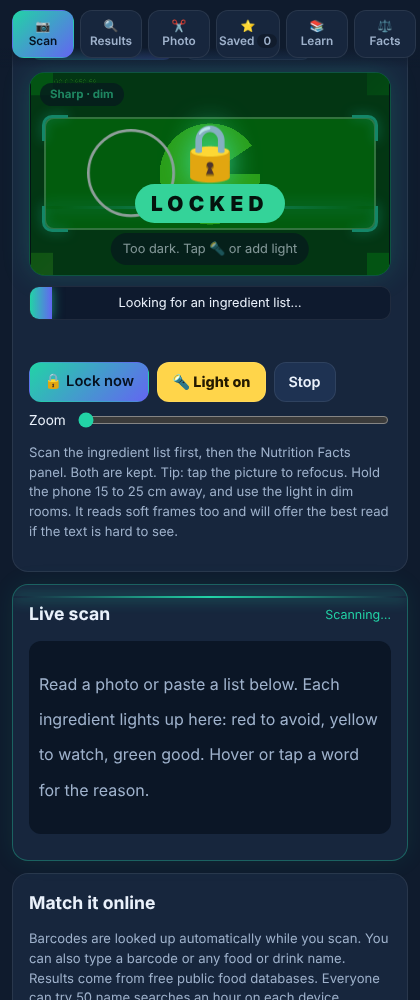
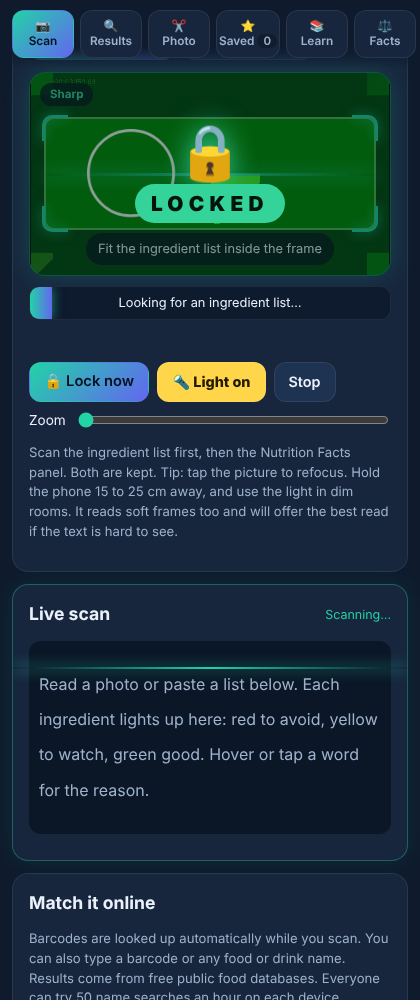
Scanner: adaptive pass for crinkled labels, union of ingredient words across frames, barcode from a photo, NOVA processing and bioengineering status on every online product
Claude-Session: https://claude.ai/code/session_01AdSpQmUyVNcMcYJpZL89FL

diff --git a/app.js b/app.js
@@ -96,6 +96,24 @@
   }
 
   /* The ORIGINAL prep: grayscale + contrast, upscale small crops. */
+  /* crinkled or shadowed packs: local (adaptive) black-and-white so text stays crisp where the light changes */
+  function binPrep(canvas) {
+    const scale = canvas.width < 1800 ? 1800 / canvas.width : 1;
+    const w = Math.round(canvas.width * scale), h = Math.round(canvas.height * scale);
+    const c = document.createElement("canvas"); c.width = w; c.height = h;
+    const ctx = c.getContext("2d", { willReadFrequently: true }); ctx.drawImage(canvas, 0, 0, w, h);
+    const im = ctx.getImageData(0, 0, w, h), d = im.data, g = new Float32Array(w * h);
+    for (let i = 0, j = 0; i < d.length; i += 4, j++) g[j] = 0.299 * d[i] + 0.587 * d[i + 1] + 0.114 * d[i + 2];
+    const R = Math.max(12, Math.round(Math.min(w, h) / 40)), integ = new Float64Array((w + 1) * (h + 1));
+    for (let y = 0; y < h; y++) { let row = 0; for (let x = 0; x < w; x++) { row += g[y * w + x]; integ[(y + 1) * (w + 1) + x + 1] = integ[y * (w + 1) + x + 1] + row; } }
+    for (let y = 0; y < h; y++) for (let x = 0; x < w; x++) {
+      const x0 = Math.max(0, x - R), x1 = Math.min(w, x + R + 1), y0 = Math.max(0, y - R), y1 = Math.min(h, y + R + 1);
+      const sum = integ[y1 * (w + 1) + x1] - integ[y0 * (w + 1) + x1] - integ[y1 * (w + 1) + x0] + integ[y0 * (w + 1) + x0];
+      const mean = sum / ((x1 - x0) * (y1 - y0));
+      const v = g[y * w + x] > mean - 10 ? 255 : 0, k = (y * w + x) * 4; d[k] = d[k + 1] = d[k + 2] = v; d[k + 3] = 255;
+    }
+    ctx.putImageData(im, 0, 0); return c;
+  }
   function classicPrep(canvas) {
     const scale = canvas.width < 1400 ? 1400 / canvas.width : 1;
     const out = document.createElement("canvas");
@@ -150,10 +168,13 @@
     if (!n) return ""; const F = window.LLNut.FIELDS.filter(f => n[f.k] != null);
     return F.length ? "  ·  Nutrition seen: " + F.slice(0, 6).map(f => f.label + " " + n[f.k] + (f.unit === "kcal" ? "" : f.unit)).join(", ") : "";
   }
-  function finalizeIng(text, cam) {                // keep items seen in at least 2 reads once we have 3+ reads
-    if (!text || cam.reads < 3) return text;
-    const kept = topItems(text).filter(it => (cam.votes.get(LLOnline.normalizeKey(it)) || 0) >= 2);
-    return kept.length >= 2 ? kept.join(", ") : text;
+  function finalizeIng(text, cam) {                // every ingredient seen in any read; a word read only once must be a known ingredient to be kept
+    if (!text) return text;
+    const E = window.IngredientEngine, out = [], seen = new Set();
+    const add = it => { const k = LLOnline.normalizeKey(it); if (!k || seen.has(k)) return; seen.add(k); out.push(it); };
+    topItems(text).forEach(it => { const k = LLOnline.normalizeKey(it); const n = cam.votes.get(k) || 0; if (n >= 2 || (E && E.matches(it).length) || cam.reads < 2) add(it); });
+    cam.first.forEach((it, k) => { if (!seen.has(k) && (cam.votes.get(k) || 0) >= 2) add(it); });
+    return out.length ? out.join(", ") : text;
   }
 
   /* ----- online match (Open Food Facts) ----- */
@@ -170,6 +191,16 @@
   function cmpNow() { return online && $("ingText").value.trim() && online.ing ? LLOnline.compare($("ingText").value, online.ing) : null; }
   let curBasis = "";
   const BASIS_LABEL = { serving: "Per serving", "100g": "Per 100 g", package: "Whole package" };
+  const PROCESS = ["", "Unprocessed or minimally processed (NOVA 1)", "Processed culinary ingredient (NOVA 2)", "Processed food (NOVA 3)", "Ultra-processed (NOVA 4)"];
+  function procLine(p) {
+    const bits = [];
+    if (p.nova && PROCESS[p.nova]) bits.push(`<span class="${p.nova >= 4 ? "bad" : p.nova === 3 ? "warnc" : "good"}">${PROCESS[p.nova]}</span>`);
+    if (p.nutri) bits.push("Nutri-Score " + String(p.nutri).toUpperCase());
+    const bio = /bio[\s-]?engineer|genetically[\s-]+(?:engineered|modified)|\bgmo\b|lab[\s-]?grown|cell[\s-]?cultur/i.test(p.ing || "");
+    bits.push(bio ? '<span class="bad">⚠ Bioengineered ingredient listed</span>' : "No bioengineering stated in its ingredient list");
+    if (!p.nova) bits.push("Processing level not in this database for this item");
+    return `<p class="small procline">${bits.join(" · ")}</p>`;
+  }
   function showOnline(p) {
     if (!online || online.code !== p.code || online.name !== p.name) curBasis = "";
     online = p; document.querySelectorAll("#findList .pick").forEach(b => b.classList.toggle("sel", b._p === p));
@@ -178,6 +209,7 @@
     box.innerHTML = `<div class="onl ${badge[0]}">
       ${p.img ? `<img src="${esc(p.img)}" alt="" loading="lazy">` : `<span class="pthumb big ph">${foodIcon(p.name)}</span>`}
       <div class="onlmeta"><b>${esc(p.name)}</b><small>${esc([p.brand, p.pkg || p.qty, p.src].filter(Boolean).join(" · "))}</small><span class="onlbadge">${esc(badge[1])}</span></div></div>
+      ${procLine(p)}
       ${cmp ? `<p class="small">${cmp.matched} of ${cmp.scanCount} scanned ingredients match the online list (${cmp.onlineCount} online).${cmp.unmatched.length ? ` Not found online: <b>${esc(cmp.unmatched.slice(0, 5).join(", "))}</b>.` : ""}${cmp.missing.length ? ` Online but not scanned: ${esc(cmp.missing.slice(0, 4).join(", "))}.` : ""}</p>` : (p.ing ? '<p class="small muted">Scan or paste the ingredient list to compare it with this product.</p>' : '<p class="small muted">This product has no ingredient list online.</p>')}
       ${nut._n && bases.length > 1 ? `<div class="basisrow">${bases.map(b => `<button class="${nut.which === b ? "on" : ""}" data-b="${b}">${BASIS_LABEL[b]}</button>`).join("")}</div>` : ""}
       <div class="row">
@@ -287,6 +319,28 @@
     if ("BarcodeDetector" in window) { try { bdet = new BarcodeDetector({ formats: ["ean_13", "ean_8", "upc_a", "upc_e"] }); return true; } catch {} }
     return loadZX();
   }
+  async function barcodeFromCanvas(c) {            // a photo of a barcode, read with the same decoders as the live camera
+    try {
+      if ("BarcodeDetector" in window) { const d = new BarcodeDetector({ formats: ["ean_13", "ean_8", "upc_a", "upc_e"] }); const r = await d.detect(c); if (r[0]) return r[0].rawValue.replace(/\D/g, ""); }
+    } catch {}
+    if (!(await loadZX())) return "";
+    try {
+      const Z = window.ZXing, reader = new Z.MultiFormatReader(), hints = new Map();
+      hints.set(Z.DecodeHintType.POSSIBLE_FORMATS, [Z.BarcodeFormat.EAN_13, Z.BarcodeFormat.EAN_8, Z.BarcodeFormat.UPC_A, Z.BarcodeFormat.UPC_E]); hints.set(Z.DecodeHintType.TRY_HARDER, true); reader.setHints(hints);
+      return reader.decode(new Z.BinaryBitmap(new Z.HybridBinarizer(new Z.HTMLCanvasElementLuminanceSource(c)))).getText().replace(/\D/g, "");
+    } catch { return ""; }
+  }
+  $("barFile").addEventListener("change", async e => {
+    const f = e.target.files[0]; e.target.value = ""; if (!f) return;
+    try {
+      let bmp; try { bmp = await createImageBitmap(f, { imageOrientation: "from-image" }); } catch { bmp = await new Promise((res, rej) => { const im = new Image(); im.onload = () => res(im); im.onerror = rej; im.src = URL.createObjectURL(f); }); }
+      const w = bmp.width || bmp.naturalWidth, h = bmp.height || bmp.naturalHeight, k = Math.min(1, 1600 / Math.max(w, h));
+      const c = document.createElement("canvas"); c.width = Math.round(w * k); c.height = Math.round(h * k); c.getContext("2d").drawImage(bmp, 0, 0, c.width, c.height);
+      const code = await barcodeFromCanvas(c);
+      if (!code) return toast("No barcode found in that photo. Move closer and keep the barcode flat and sharp.");
+      $("findCode").value = code; guard($("findCodeBtn"), () => lookupCode(code, true));
+    } catch { toast("Could not read that photo"); }
+  });
   async function detectBarcode() {
     const v = $("camVideo"); if (!v.videoWidth) return "";
     try {
@@ -317,7 +371,7 @@
   }
 
   /* ----- live camera scanner ----- */
-  const cam = { stream: null, track: null, run: false, worker: null, last: "", stable: 0, bestRead: null, cand: null, candHits: 0, t0: 0, n: 0, locking: false, nut: null, votes: new Map(), reads: 0, code: "", barRun: false };
+  const cam = { stream: null, track: null, run: false, worker: null, last: "", stable: 0, bestRead: null, cand: null, candHits: 0, t0: 0, n: 0, locking: false, nut: null, votes: new Map(), first: new Map(), reads: 0, code: "", barRun: false };
   const sleep = ms => new Promise(r => setTimeout(r, ms));
   const hud = (t, state) => { $("camHud").textContent = t; if (state) $("camView").dataset.state = state; };
 
@@ -388,7 +442,7 @@
     $("camView").style.aspectRatio = v.videoWidth + " / " + v.videoHeight;
     setupTrack();
     $("camView").dataset.state = ""; $("camLockBadge").hidden = true; $("camLive").textContent = ""; setBar($("scanBar"), 0); $("scanStatus").textContent = "Starting…";
-    Object.assign(cam, { run: true, last: "", stable: 0, bestRead: null, cand: null, candHits: 0, t0: Date.now(), n: 0, locking: false, nut: null, votes: new Map(), reads: 0, code: "", barRun: false });
+    Object.assign(cam, { run: true, last: "", stable: 0, bestRead: null, cand: null, candHits: 0, t0: Date.now(), n: 0, locking: false, nut: null, votes: new Map(), first: new Map(), reads: 0, code: "", barRun: false });
     scanBusy = true; $("camCapture").classList.remove("pulse"); $("camCapture").textContent = "🔒 Lock now";
     $("liveCard").classList.add("scanning"); $("liveState").textContent = "Scanning…";
     $("camBox").scrollIntoView({ behavior: "smooth", block: "start" });
@@ -453,8 +507,9 @@
         // alternate prep: original, and a rescue version for soft or dark frames
         const rescue = (cam.n++ % 2 === 1) || soft || dark;
         const src = rescue ? enhanceFrame(burst.c, soft) : burst.c;
-        hud(soft || dark ? "Reading a soft frame…" : "Reading…", cam.cand ? "found" : "search");
-        const { data } = await recognizeSafe(classicPrep(src));
+        const useBin = soft || dark || cam.n % 3 === 2;
+        hud(soft || dark ? "Reading a soft or crinkled frame…" : "Reading…", cam.cand ? "found" : "search");
+        const { data } = await recognizeSafe(useBin ? binPrep(src) : classicPrep(src));
         if (!cam.run) break;
         const r = filterOCR(data), secs = (Date.now() - cam.t0) / 1000;
         if (r.nut && (!cam.nut || r.nut._n >= cam.nut._n)) cam.nut = r.nut;
@@ -466,7 +521,7 @@
           $("camLive").textContent = (r.hits ? "…" + r.text.slice(0, 160) : "") + nutLine(r.nutRaw);
           hud(burst.sh < 25 ? "Hold steady, tap the screen to focus" : dark ? "Too dark. Tap 🔦 or add light" : "Fit the ingredient list inside the frame", r.hits ? "found" : "search");
         } else {
-          if (r.ing) { cam.reads++; topItems(r.ing).forEach(it => { const k = LLOnline.normalizeKey(it); if (k) cam.votes.set(k, (cam.votes.get(k) || 0) + 1); }); }
+          if (r.ing) { cam.reads++; topItems(r.ing).forEach(it => { const k = LLOnline.normalizeKey(it); if (!k) return; cam.votes.set(k, (cam.votes.get(k) || 0) + 1); if (!cam.first.has(k)) cam.first.set(k, it); }); }
           const same = cam.last && jaccard(wordSet(r.text), wordSet(cam.last)) >= 0.55;
           cam.stable = same ? cam.stable + 1 : 0; cam.last = r.text;
           if (!same || r.text.length >= ((cam.bestRead && cam.bestRead.text) || "").length * 0.8) cam.bestRead = r;
@@ -563,9 +618,17 @@
       const w = bmp.width || bmp.naturalWidth, h = bmp.height || bmp.naturalHeight, k = Math.min(1, 2400 / Math.max(w, h));
       const c = document.createElement("canvas"); c.width = Math.round(w * k); c.height = Math.round(h * k);
       c.getContext("2d").drawImage(bmp, 0, 0, c.width, c.height);
+      const code = await barcodeFromCanvas(c);
+      if (code) { $("findCode").value = code; toast("Barcode " + code + " read from the photo"); await lookupCode(code, true); return; }
       cam.worker = cam.worker || await Tesseract.createWorker("eng");
-      const { data } = await cam.worker.recognize(classicPrep(c));
-      const r = filterOCR(data);
+      const a = filterOCR((await cam.worker.recognize(classicPrep(c))).data), b2 = filterOCR((await cam.worker.recognize(binPrep(c))).data);
+      const r = (b2.ing.length > a.ing.length) ? Object.assign({}, b2, { text: b2.text }) : a;
+      if (!r.ok && b2.ok) Object.assign(r, b2);
+      if (r.ing && a.ing && b2.ing && a.ing !== b2.ing) {          // merge both passes so no word is lost
+        const seen = new Set(), merged = [];
+        [...topItems(a.ing), ...topItems(b2.ing)].forEach(it => { const k = LLOnline.normalizeKey(it); if (k && !seen.has(k)) { seen.add(k); merged.push(it); } });
+        r.ing = merged.join(", "); r.text = r.ing;
+      }
       if (!r.ok) { $("liveState").textContent = "No ingredient list found"; return toast("No ingredient list found in that photo. Try the live scanner and fit the list in the frame."); }
       lockScan(r, c);
     } catch (err) { console.error(err); toast("Could not read that photo"); }

diff --git a/sw.js b/sw.js
@@ -1,4 +1,4 @@
-const V="ll-v28",FILES=["./","index.html","styles.css","app.js","crop.js","cutout.js","tracker.js","journey.js","ingredients.js","ingredients-extra.js","education.js","facts.js","nutrition.js","online.js","research.js","config.js","ingredient-info.js","facts-more.js","ingredients-more.js","facts-data.js","icon.svg"];
+const V="ll-v29",FILES=["./","index.html","styles.css","app.js","crop.js","cutout.js","tracker.js","journey.js","ingredients.js","ingredients-extra.js","education.js","facts.js","nutrition.js","online.js","research.js","config.js","ingredient-info.js","facts-more.js","ingredients-more.js","facts-data.js","icon.svg"];
 self.addEventListener("install",e=>{e.waitUntil(caches.open(V).then(c=>c.addAll(FILES).catch(()=>{})).then(()=>self.skipWaiting()))});
 self.addEventListener("activate",e=>{e.waitUntil(caches.keys().then(k=>Promise.all(k.filter(x=>x!==V).map(x=>caches.delete(x)))).then(()=>self.clients.claim()))});
 /* Network first for the app's own files so updates show up immediately; cache is only the offline fallback. */

diff --git a/index.html b/index.html
@@ -85,6 +85,7 @@
       <h2>Match it online</h2>
       <p class="muted small">Barcodes are looked up automatically while you scan. You can also type a barcode or any food or drink name. Results come from free public food databases. Everyone can try 50 name searches an hour on each device. Lookups are cached and spaced out so the service is never overloaded.</p>
       <div class="row findrow"><input id="findCode" type="text" inputmode="numeric" placeholder="Barcode (8 to 14 digits)"><button class="btn" id="findCodeBtn">Look up</button></div>
+      <div class="row findrow"><label class="btn" for="barFile">📷 Barcode from a photo</label><input type="file" id="barFile" accept="image/*" hidden></div>
       <div class="row findrow"><input id="findName" type="text" placeholder="Any food or drink, e.g. Twinkies"><button class="btn" id="findNameBtn">Search</button></div>
       <p class="muted small" id="findQuota"></p>
       <p class="muted small" id="findMsg"></p>

diff --git a/styles.css b/styles.css
@@ -361,3 +361,4 @@ button{font-family:inherit}
 /* lock button: one compact line, never grows with its label */
 #camCapture{white-space:nowrap;font-size:.92rem;padding:9px 14px;min-width:0;line-height:1.2}
 .camctl .btn{white-space:nowrap}
+.procline .bad{color:var(--red)}.procline .warnc{color:var(--yellow)}.procline .good{color:var(--green)}.procline{margin:8px 0}
